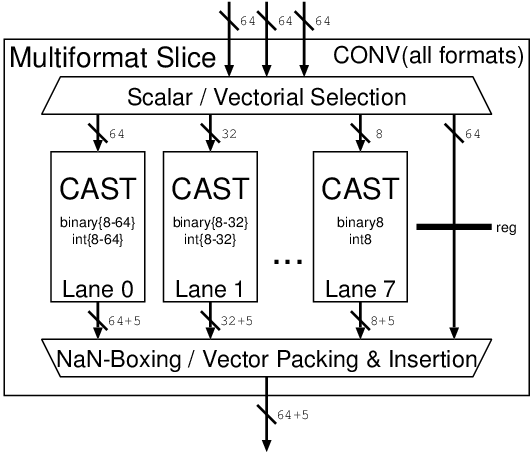
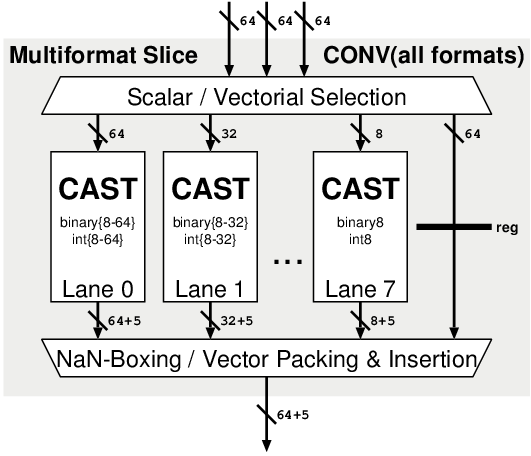
:books: Update documentation

diff --git a/docs/README.md b/docs/README.md
@@ -427,6 +427,8 @@ Results from all lanes are collected and assembled at the output of the slice.
 
 Implementing units as merged slices usually yields best total area, however costs more in terms of per-format latency.
 
+When the `ADDMUL` block is implemented using the `MERGED` implementation, multi-format FMA (multiplication done in `src_format`, accumulation in `dst_format`) is automatically supported among all formats using `MERGED`.
+
 ![FPnew](fig/multislice_block.png)
 
 
@@ -435,6 +437,9 @@ Implementing units as merged slices usually yields best total area, however cost
 Pipeline registers are inserted into the operational units directly, according to the settings in the  `Implementation` parameter.
 As such, each slice in the system can have a different latency.
 Merged slices are bound to thave the largest latency of the included formats.
+
+All pipeline registers are inserted as shift registers at predefined locations in the FPU.
+For optimal mapping, retiming funcitonality of your synthesis tools should be used to balance the paths between registers.
 
 Data traverses the pipeline stages within the operational units using the same handshaking mechanism that is also present at the top-level FPU interface.
 An individual pipeline stage is only stalled if its successor stage is stalled and cannot proceed in the following cycle.

diff --git a/docs/CHANGELOG.md b/docs/CHANGELOG.md
@@ -8,8 +8,14 @@ In this sense, we interpret the "Public API" of a hardware module as its port/pa
 
 
 ## [Unreleased]
+
 ### Added
+- Documentation about multi-format operations
+- Extended pipelining description slightly
+
 ### Changed
+- Updated diagrams in architecture documentation
+
 ### Fixed
 
 ## [0.5.3] - 2019-05-31
@@ -17,10 +23,12 @@ In this sense, we interpret the "Public API" of a hardware module as its port/pa
 ### Fixed
 - ips_list.yml entry for updated common_cells
 
+
 ## [0.5.2] - 2019-05-31
 
 ### Fixed
 - Internal pipeline bypass in cast unit
+
 
 ## [0.5.1] - 2019-05-27
 

diff --git a/README.md b/README.md
@@ -30,6 +30,8 @@ Multiple integer formats with arbitrary number of bits (as source or destionatio
 - Conversions between FP formats and integers (signed & unsigned) and vice versa
 - Classification
 
+Multi-format FMA operations (i.e. multiplication in one format, accumulation in another) are optionally supported. 
+
 Optionally, *packed-SIMD* versions of all the above operations can be generated for formats narrower than the FPU datapath width.
 E.g.: Support for double-precision (64bit) operations and two simultaneous single-precision (32bit) operations.
 
